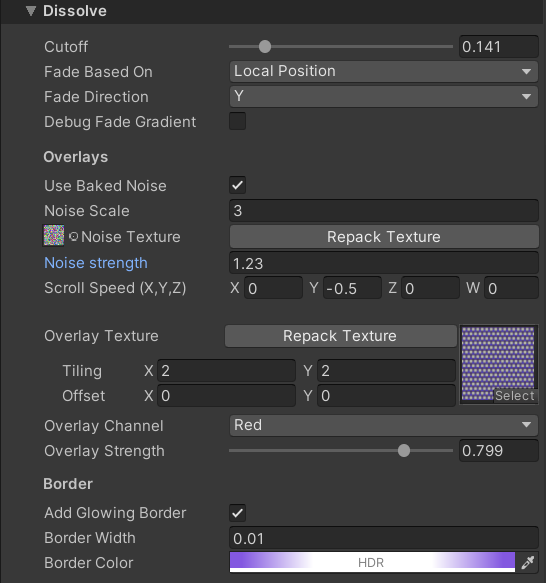
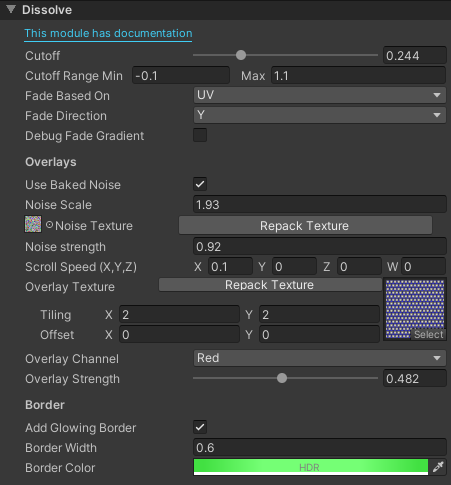
updated docs for dev.9

diff --git a/src/pages/docs/changelog.md b/src/pages/docs/changelog.md
@@ -42,6 +42,7 @@ Update 6.4.0 brings a plethora of new features, improvements, and bugfixes. Ther
 - Specular occlusion now properly occludes reflection probes again. You might need to tune the Specular Occlusion slider to adjust the effect. Please note that the slider has been renamed to "Reflection Probe Occlusion" in the UI
 - Fixed off-by-one errors in the channel selector for Albedo and Emission textures
 - Shader tags are now de-duplicated automatically, this can help with some issues with Bakery Lightmapper
+- Gradient editor now correctly handles "Fixed" blending mode. Thanks [@lackofbindings](https://github.com/lackofbindings) for the fix!
 
 ### Other Changes
 
@@ -49,6 +50,7 @@ Update 6.4.0 brings a plethora of new features, improvements, and bugfixes. Ther
 - Updated the Tessellated Displacement shader to use latest shader generator tech. It now has MONOSH and can be used with Configurable shaders.
 - "Specular Occlusion" has been renamed to "Reflection Probe Occlusion" to better reflect what is happening under the hood.
 - Some properties in the Lightmapping section were moved around to improve usability.
+- [Dissolve](/docs/orl-standard/dissolve) now has configurable **Cutoff Range** with adjusted defaults. Thanks [@lackofbindings](https://github.com/lackofbindings) for the suggestion!
 
 ## v6.3.0
 

diff --git a/src/pages/docs/orl-standard/dissolve.md b/src/pages/docs/orl-standard/dissolve.md
@@ -14,6 +14,7 @@ This shader provides a customizable cutout dissolve effect on top of Standard. I
 ![Dissolve Inspector](/img/docs/orl-standard/dissolve/dissolve-inspector.png "Dissolve Inspector")
 
 - Cutoff: Any pixels with an alpha value below this value will be cut out
+- Cutoff Range Min/Max: Controls the range of the cutoff value. This can be especially useful when using **Fade Based On** set to Local Position
 - Fade Based On: Controls how the dissolve effect is applied. The values selected here will be then passed to the Alpha channel and used by the **Cutoff** to control the fade
   - Local Position: Fades the dissolve effect based on the mesh local position
   - UV: Fades the dissolve effect based on the UV coordinates
